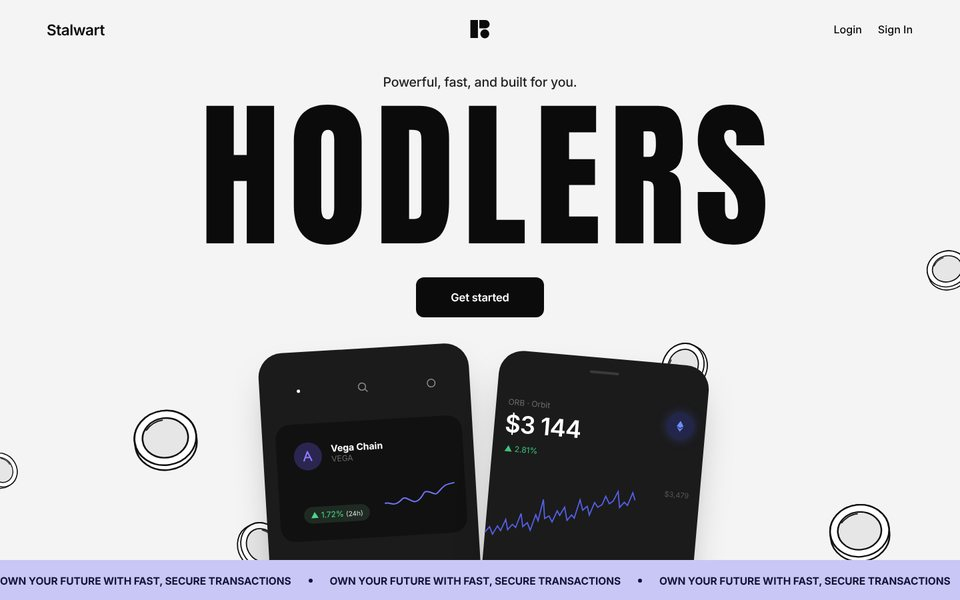
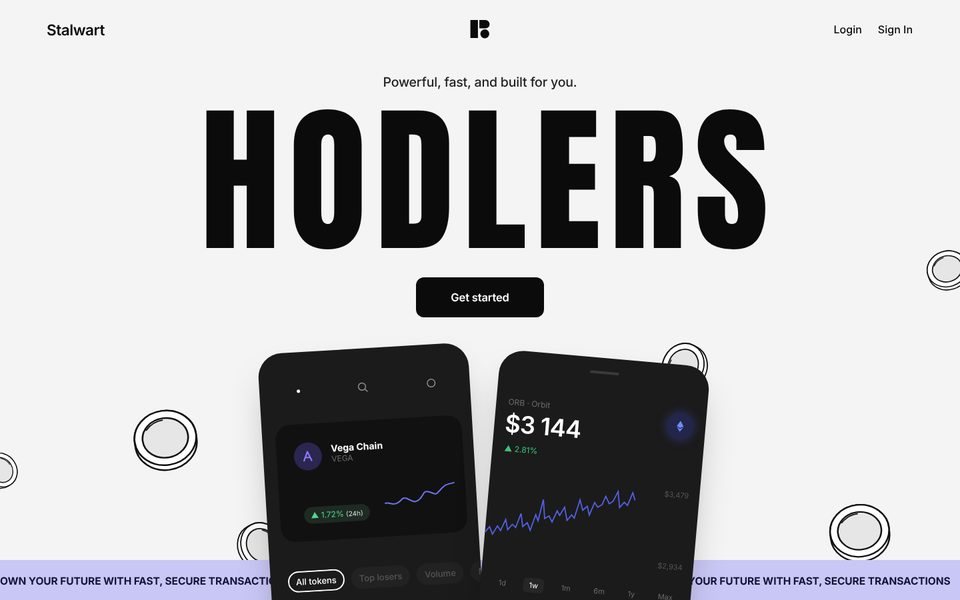
Study 04 round 2: hero phones with full app screens riding over the band, kerning kept after the letter split, larger stats art, detailed Receive phone, smooth FAQ with the reference's hover-and-open
Claude-Session: https://claude.ai/code/session_014fY7WfygHxUwqSqfTcfTfp

diff --git a/studies/04-wallet/style.css b/studies/04-wallet/style.css
@@ -37,16 +37,33 @@ main, .foot { position: relative; max-width: 1440px; margin-inline: auto; }
 .nav__right a:hover { opacity: .6; }
 
 /* ---------------------------------------------------------------- hero */
-.hero { position: relative; height: calc(902 * var(--u)); overflow: hidden; text-align: center; }
+.hero { position: relative; height: calc(902 * var(--u)); overflow-x: clip; overflow-y: visible; text-align: center; }
 .hero__sub { position: absolute; left: 0; right: 0; top: calc(111 * var(--u)); font-size: calc(19.5 * var(--u)); font-weight: 500; letter-spacing: -.01em; color: #222; }
-.hero__title { position: absolute; left: 0; right: 0; top: calc(130 * var(--u)); font-family: var(--cond); font-weight: 400; font-size: calc(240 * var(--u)); line-height: 1.12; letter-spacing: .054em; text-indent: .054em; color: #0B0B0B; }
+.hero__title { position: absolute; left: 0; right: 0; top: calc(137 * var(--u)); font-family: var(--cond); font-weight: 400; font-size: calc(240 * var(--u)); line-height: 1.12; letter-spacing: .054em; text-indent: .054em; color: #0B0B0B; }
 .hero__title span { display: inline-block; }
 .hero__title .ch { display: inline-block; }
 .btn--hero { position: absolute; left: 50%; top: calc(416 * var(--u)); translate: -50% 0; width: calc(192 * var(--u)); height: calc(60 * var(--u)); padding: 0; border-radius: calc(12 * var(--u)); font-size: calc(16.5 * var(--u)); }
 .btn--hero:hover { translate: -50% calc(-2 * var(--u)); }
 .coins { position: absolute; inset: 0; pointer-events: none; }
 .coin { position: absolute; left: calc(var(--x) * var(--u)); top: calc(var(--y) * var(--u)); width: calc(110 * var(--u) * var(--s)); height: calc(110 * var(--u) * var(--s)); transform: rotate(calc(var(--r) * 1deg)) scaleY(.92); }
-.hero__phones { position: absolute; left: 0; right: 0; top: calc(518 * var(--u)); height: calc(700 * var(--u)); }
+.hero__phones { position: absolute; z-index: 3; left: 0; right: 0; top: calc(518 * var(--u)); height: calc(700 * var(--u)); pointer-events: none; }
+.s-list { position: absolute; left: calc(22 * var(--u)); right: calc(22 * var(--u)); top: calc(384 * var(--u)); margin: 0; padding: 0; list-style: none; }
+.s-list li { position: relative; display: flex; align-items: center; height: calc(66 * var(--u)); }
+.s-list .tk { position: static; flex: none; width: calc(40 * var(--u)); height: calc(40 * var(--u)); }
+.tk--gold { background: #3A2A12; color: #F2A93B; } .tk--orb { background: #23264A; color: #6E8BFF; } .tk--xeno { background: #13332E; color: #3CC7A8; } .tk--solis { background: #39320F; color: #F2CF3B; }
+.s-list p { display: grid; gap: calc(3 * var(--u)); margin-left: calc(14 * var(--u)); font-size: calc(12.5 * var(--u)); font-weight: 600; text-transform: uppercase; letter-spacing: .01em; }
+.s-list p small { width: max-content; padding: calc(2 * var(--u)) calc(7 * var(--u)); border-radius: calc(6 * var(--u)); background: #232323; color: #6B6B6B; font-size: calc(10.5 * var(--u)); font-weight: 500; }
+.s-list em { display: grid; justify-items: end; gap: calc(3 * var(--u)); margin-left: auto; font-style: normal; font-size: calc(14 * var(--u)); font-weight: 600; }
+.s-list em small { font-size: calc(11 * var(--u)); font-weight: 500; }
+.s-list .up { color: #3CC37A; } .s-list .dn { color: #E5484D; }
+.s-act { position: absolute; left: calc(16 * var(--u)); right: calc(16 * var(--u)); top: calc(392 * var(--u)); display: grid; grid-template-columns: 1fr 1fr; gap: calc(10 * var(--u)); }
+.s-act b, .s-act span { display: grid; place-items: center; height: calc(54 * var(--u)); border-radius: calc(14 * var(--u)); font-size: calc(14 * var(--u)); font-weight: 600; }
+.s-act b { background: #F3F3F3; color: #111; }
+.s-act span { box-shadow: inset 0 0 0 calc(2 * var(--u)) #EDEDED; color: #fff; }
+.s-about { position: absolute; left: calc(18 * var(--u)); right: calc(20 * var(--u)); top: calc(470 * var(--u)); font-size: calc(11.5 * var(--u)); line-height: 1.5; color: #4E4E4E; }
+.s-about b { display: block; margin-bottom: calc(10 * var(--u)); color: #EDEDED; font-size: calc(12.5 * var(--u)); font-weight: 700; text-transform: uppercase; letter-spacing: .02em; }
+.s-stats { position: absolute; left: calc(12 * var(--u)); right: calc(12 * var(--u)); top: calc(574 * var(--u)); display: grid; grid-template-columns: 1fr 1fr; gap: calc(6 * var(--u)); }
+.s-stats span { height: calc(90 * var(--u)); padding: calc(16 * var(--u)); border-radius: calc(16 * var(--u)); background: #232323; font-size: calc(12 * var(--u)); color: #5A5A5A; }
 .dev { position: absolute; width: calc(316 * var(--u)); height: calc(660 * var(--u)); border-radius: calc(36 * var(--u)); background: var(--night); box-shadow: 0 calc(30 * var(--u)) calc(60 * var(--u)) calc(-20 * var(--u)) rgba(0, 0, 0, .35); color: #fff; text-align: left; overflow: hidden; }
 .dev--l { left: calc(405 * var(--u)); top: calc(4 * var(--u)); rotate: -3.4deg; }
 .dev--r { left: calc(722 * var(--u)); top: calc(18 * var(--u)); rotate: 5deg; }
@@ -104,7 +121,7 @@ main, .foot { position: relative; max-width: 1440px; margin-inline: auto; }
 .stats { position: relative; }
 .stats__in { position: relative; display: grid; grid-template-columns: calc(616 * var(--u)) 1fr; padding-left: calc(120 * var(--u)); }
 .art { position: sticky; top: max(calc(133 * var(--u)), calc(50vh - 318 * var(--u))); width: calc(510 * var(--u)); height: calc(645 * var(--u)); margin-top: calc(133 * var(--u)); margin-bottom: calc(124 * var(--u)); border-radius: calc(10 * var(--u)); background: #fff; }
-.art__img { position: absolute; left: calc(95 * var(--u)); top: calc(126 * var(--u)); width: calc(320 * var(--u)); height: calc(390 * var(--u)); opacity: 0; overflow: visible; }
+.art__img { position: absolute; left: calc(63 * var(--u)); top: calc(87 * var(--u)); width: calc(384 * var(--u)); height: calc(468 * var(--u)); opacity: 0; overflow: visible; }
 .art__img--1 { opacity: 1; }
 .stat-list { padding-top: calc(395 * var(--u)); padding-bottom: calc(330 * var(--u)); }
 .stat { width: calc(470 * var(--u)); color: var(--grey); transition: color .5s var(--ease); }
@@ -192,13 +209,19 @@ html:not(.js-motion) .cp + .cp { margin-top: calc(300 * var(--u)); }
 .nt__txt { padding: calc(14 * var(--u)) calc(20 * var(--u)); font-size: calc(10.5 * var(--u)); line-height: 1.45; color: #777; }
 .nt__txt b { color: #fff; font-weight: 600; }
 .sp--qr { background: radial-gradient(ellipse 80% 40% at 50% 50%, #1E1E1E, #0B0B0B 70%); }
-.qr__addr { position: absolute; left: 0; right: 0; top: calc(56 * var(--u)); text-align: center; font-size: calc(11 * var(--u)); color: #777; }
-.qr__code { position: absolute; left: 50%; top: calc(110 * var(--u)); width: calc(150 * var(--u)); height: calc(150 * var(--u)); translate: -50% 0; }
+.qr__grab { position: absolute; left: 50%; top: calc(26 * var(--u)); width: calc(40 * var(--u)); height: calc(4 * var(--u)); translate: -50% 0; border-radius: 9px; background: #3A3A3A; }
+.qr__addr { position: absolute; left: 50%; top: calc(46 * var(--u)); translate: -50% 0; display: flex; align-items: center; gap: calc(10 * var(--u)); height: calc(38 * var(--u)); padding: 0 calc(14 * var(--u)) 0 calc(16 * var(--u)); border-radius: 999px; background: #1A1A1A; box-shadow: inset 0 0 0 1px #2C2C2C; font-size: calc(11.5 * var(--u)); font-weight: 600; color: #CFCFCF; white-space: nowrap; }
+.qr__addr svg { width: calc(12 * var(--u)); height: calc(12 * var(--u)); color: #777; }
+.qr__card { position: absolute; left: calc(14 * var(--u)); right: calc(14 * var(--u)); top: calc(96 * var(--u)); height: calc(196 * var(--u)); border-radius: calc(22 * var(--u)); background: #141414; box-shadow: inset 0 0 0 1px #222, 0 calc(14 * var(--u)) calc(30 * var(--u)) rgba(0, 0, 0, .5); }
+.qr__ghost { position: absolute; left: calc(26 * var(--u)); right: calc(26 * var(--u)); top: calc(392 * var(--u)); height: calc(46 * var(--u)); border-radius: calc(12 * var(--u)); background: #232323; filter: blur(calc(6 * var(--u))); opacity: .7; }
+.qr__ghost--2 { top: calc(452 * var(--u)); right: calc(120 * var(--u)); opacity: .5; }
+.qr__code { position: absolute; left: 50%; top: calc(118 * var(--u)); width: calc(152 * var(--u)); height: calc(152 * var(--u)); translate: -50% 0; }
 .qr__code > svg { width: 100%; height: 100%; }
 .qr__code span { position: absolute; left: 50%; top: 50%; display: grid; place-items: center; width: calc(36 * var(--u)); height: calc(36 * var(--u)); translate: -50% -50%; border-radius: 50%; background: #fff; color: #111; box-shadow: 0 0 0 calc(4 * var(--u)) #0B0B0B; }
 .qr__code span svg { width: 56%; height: 56%; }
-.qr__title { position: absolute; left: 0; right: 0; top: calc(300 * var(--u)); text-align: center; font-size: calc(30 * var(--u)); font-weight: 600; }
-.qr__hint { position: absolute; left: 0; right: 0; top: calc(348 * var(--u)); text-align: center; font-size: calc(10 * var(--u)); line-height: 1.5; color: #555; }
+.qr__title { position: absolute; left: 0; right: 0; top: calc(312 * var(--u)); text-align: center; font-size: calc(30 * var(--u)); font-weight: 600; text-shadow: 0 0 calc(24 * var(--u)) rgba(255, 255, 255, .28); }
+.qr__title::before { content: ""; position: absolute; z-index: -1; left: 18%; right: 18%; top: -30%; bottom: -30%; border-radius: 50%; background: radial-gradient(closest-side, rgba(255, 255, 255, .1), transparent); }
+.qr__hint { position: absolute; left: 0; right: 0; top: calc(356 * var(--u)); text-align: center; font-size: calc(10 * var(--u)); line-height: 1.5; color: #555; }
 .qr__copy { position: absolute; left: calc(16 * var(--u)); right: calc(16 * var(--u)); bottom: calc(26 * var(--u)); display: grid; place-items: center; height: calc(50 * var(--u)); border-radius: calc(10 * var(--u)); background: #fff; color: #111; font-size: calc(13 * var(--u)); font-weight: 600; }
 .copy { position: relative; grid-column: 2; }
 .cp { position: absolute; left: 0; top: calc(304 * var(--u)); width: calc(520 * var(--u)); }
@@ -232,8 +255,8 @@ html:not(.js-motion) .cp + .cp { margin-top: calc(300 * var(--u)); }
 .q { position: relative; border-radius: calc(14 * var(--u)); transition: background-color .3s var(--ease); }
 .q::after { content: ""; position: absolute; left: calc(20 * var(--u)); right: calc(20 * var(--u)); bottom: 0; height: 1px; background: #E6E6E6; transition: opacity .3s; }
 .q:last-child::after { display: none; }
-.q:hover, .q[open] { background: #E4E4E4; }
-.q:hover::after, .q[open]::after { opacity: 0; }
+.q:hover, .q.is-hover { background: #E4E4E4; }
+.q:hover::after, .q.is-hover::after { opacity: 0; }
 .q summary { display: flex; align-items: center; justify-content: space-between; height: calc(88 * var(--u)); padding: 0 calc(20 * var(--u)); list-style: none; cursor: pointer; font-size: calc(19 * var(--u)); font-weight: 500; letter-spacing: -.012em; }
 .q summary::-webkit-details-marker { display: none; }
 .q summary svg { width: calc(20 * var(--u)); height: calc(20 * var(--u)); transition: rotate .4s var(--ease); }

diff --git a/studies/04-wallet/index.html b/studies/04-wallet/index.html
@@ -67,6 +67,12 @@
           <div class="s-top"><i class="dot"></i><svg><use href="#i-search"/></svg><svg><use href="#i-ring"/></svg></div>
           <div class="s-token"><span class="tk tk--vega"><svg><use href="#t-arc"/></svg></span><p><b>Vega Chain</b><small>VEGA</small></p><em>▲ 1.72% <small>(24h)</small></em><svg class="spark" viewBox="0 0 110 40"><path d="M2 30c8-2 10 4 18 1s8-10 16-6 10 8 18 2 6-14 16-10 8 6 16-2 10-8 22-10" fill="none" stroke="#6E73F4" stroke-width="2"/></svg></div>
           <p class="s-chips"><b>All tokens</b><span>Top losers</span><span>Volume</span><span>Market</span></p>
+          <ul class="s-list">
+            <li><span class="tk tk--gold"><svg><use href="#t-gold"/></svg></span><p><b>Golden</b><small>GLD</small></p><em>$102 536<small class="dn">− 1.04%</small></em></li>
+            <li><span class="tk tk--orb"><svg><use href="#t-orb"/></svg></span><p><b>Orbit</b><small>ORB</small></p><em>$3 144<small class="up">+ 2.81%</small></em></li>
+            <li><span class="tk tk--xeno"><svg><use href="#t-xeno"/></svg></span><p><b>Xeno</b><small>XNO</small></p><em>$1.00<small class="dn">− 0.02%</small></em></li>
+            <li><span class="tk tk--solis"><svg><use href="#t-solis"/></svg></span><p><b>Solis</b><small>SLS</small></p><em>$697.38<small class="up">+ 0.72%</small></em></li>
+          </ul>
         </div>
       </div>
       <div class="dev dev--r">
@@ -78,7 +84,10 @@
           <span class="s-coin"><svg><use href="#t-orb"/></svg></span>
           <svg class="s-chart" viewBox="0 0 300 120" preserveAspectRatio="none"><path d="M0 92l6-8 5 10 6-12 5 6 6-16 4 14 6-8 5 4 6-20 4 18 6-6 5 10 6-22 4 8 5-30 4 26 6-4 5 8 6-16 4 6 6-12 5 18 6-8 4 4 6-26 5 14 6-6 4 12 6-18 5 6 6-4 4-12 6 10 5-4 6-14 4 22 6-8 5 4 6-18 4 10"/></svg>
           <small class="s-hi">$3,479</small><small class="s-lo">$2,934</small>
-          <p class="s-range"><span class="on">1w</span><span>1m</span><span>6m</span></p>
+          <p class="s-range"><span>1d</span><span class="on">1w</span><span>1m</span><span>6m</span><span>1y</span><span>Max</span></p>
+          <p class="s-act"><b>Buy</b><span>Send</span></p>
+          <p class="s-about"><b>Orbit</b>Orbit is a decentralized network with its own token, Orbit (ORB), and works as a platform for many other projects.</p>
+          <p class="s-stats"><span>Market Cap</span><span>Volume</span></p>
         </div>
       </div>
     </div>
@@ -186,10 +195,10 @@
             <div class="nt"><div class="nt__card"><span class="nt__ic nt__ic--b"><svg><use href="#t-orb"/></svg></span><p><b>Price alert</b><small>Oct 2, 2026</small></p><svg class="nt__go"><use href="#i-right"/></svg></div><p class="nt__txt">Orbit (ORB) is down <b>-3.45%</b> to <b>$1,832.50</b> in the last <b>24</b> hours.</p></div>
           </div>
           <div class="sp sp--qr">
-            <p class="qr__addr">0x9f…a7c4</p>
-            <div class="qr__code"><svg viewBox="0 0 25 25" shape-rendering="crispEdges"><path fill="#fff" d="M0 0h7v7H0zM18 0h7v7h-7zM0 18h7v7H0zM9 1h2v2H9zM13 0h3v2h-3zM9 5h4v2H9zM15 4h2v4h-2zM8 9h3v2H8zM12 8h2v3h-2zM16 10h4v2h-4zM21 8h3v3h-3zM1 9h3v3H1zM5 11h2v2H5zM9 13h2v4H9zM12 13h4v2h-4zM18 13h2v2h-2zM21 13h4v2h-4zM13 17h2v2h-2zM17 16h3v3h-3zM22 17h3v4h-3zM9 19h3v2H9zM14 20h3v2h-3zM19 21h2v4h-2zM9 23h4v2H9zM15 23h3v2h-3zM2 14h4v2H2z"/><path fill="#000" d="M1 1h5v5H1zM19 1h5v5h-5zM1 19h5v5H1z"/><path fill="#fff" d="M2 2h3v3H2zM20 2h3v3h-3zM2 20h3v3H2z"/></svg><span><svg><use href="#t-orb"/></svg></span></div>
+            <i class="qr__grab"></i><p class="qr__addr">0x9f7a…c4e1a<svg><use href="#i-chev"/></svg></p><i class="qr__card"></i>
+            <div class="qr__code"><svg viewBox="0 0 29 29" shape-rendering="crispEdges"><path fill="#fff" d="M10 0h1v1h-1zM17 0h1v1h-1zM20 0h1v1h-1zM12 1h1v1h-1zM19 1h1v1h-1zM8 2h1v1h-1zM11 2h1v1h-1zM12 2h1v1h-1zM15 2h1v1h-1zM17 2h1v1h-1zM19 2h1v1h-1zM8 3h1v1h-1zM10 3h1v1h-1zM11 3h1v1h-1zM12 3h1v1h-1zM15 3h1v1h-1zM17 3h1v1h-1zM20 3h1v1h-1zM9 4h1v1h-1zM13 4h1v1h-1zM14 4h1v1h-1zM18 4h1v1h-1zM19 4h1v1h-1zM20 4h1v1h-1zM10 5h1v1h-1zM11 5h1v1h-1zM19 5h1v1h-1zM20 5h1v1h-1zM8 6h1v1h-1zM13 6h1v1h-1zM9 7h1v1h-1zM12 7h1v1h-1zM13 7h1v1h-1zM16 7h1v1h-1zM17 7h1v1h-1zM19 7h1v1h-1zM1 8h1v1h-1zM2 8h1v1h-1zM6 8h1v1h-1zM8 8h1v1h-1zM10 8h1v1h-1zM11 8h1v1h-1zM16 8h1v1h-1zM17 8h1v1h-1zM18 8h1v1h-1zM19 8h1v1h-1zM20 8h1v1h-1zM21 8h1v1h-1zM23 8h1v1h-1zM24 8h1v1h-1zM26 8h1v1h-1zM28 8h1v1h-1zM0 9h1v1h-1zM4 9h1v1h-1zM5 9h1v1h-1zM6 9h1v1h-1zM7 9h1v1h-1zM10 9h1v1h-1zM13 9h1v1h-1zM15 9h1v1h-1zM18 9h1v1h-1zM19 9h1v1h-1zM20 9h1v1h-1zM21 9h1v1h-1zM23 9h1v1h-1zM24 9h1v1h-1zM26 9h1v1h-1zM27 9h1v1h-1zM0 10h1v1h-1zM4 10h1v1h-1zM6 10h1v1h-1zM9 10h1v1h-1zM12 10h1v1h-1zM14 10h1v1h-1zM15 10h1v1h-1zM16 10h1v1h-1zM17 10h1v1h-1zM19 10h1v1h-1zM21 10h1v1h-1zM23 10h1v1h-1zM25 10h1v1h-1zM27 10h1v1h-1zM28 10h1v1h-1zM2 11h1v1h-1zM5 11h1v1h-1zM7 11h1v1h-1zM8 11h1v1h-1zM10 11h1v1h-1zM11 11h1v1h-1zM17 11h1v1h-1zM18 11h1v1h-1zM19 11h1v1h-1zM21 11h1v1h-1zM26 11h1v1h-1zM27 11h1v1h-1zM28 11h1v1h-1zM1 12h1v1h-1zM2 12h1v1h-1zM4 12h1v1h-1zM7 12h1v1h-1zM10 12h1v1h-1zM19 12h1v1h-1zM20 12h1v1h-1zM21 12h1v1h-1zM22 12h1v1h-1zM23 12h1v1h-1zM24 12h1v1h-1zM25 12h1v1h-1zM26 12h1v1h-1zM28 12h1v1h-1zM0 13h1v1h-1zM1 13h1v1h-1zM2 13h1v1h-1zM6 13h1v1h-1zM7 13h1v1h-1zM8 13h1v1h-1zM10 13h1v1h-1zM18 13h1v1h-1zM21 13h1v1h-1zM25 13h1v1h-1zM28 13h1v1h-1zM0 14h1v1h-1zM1 14h1v1h-1zM3 14h1v1h-1zM6 14h1v1h-1zM7 14h1v1h-1zM8 14h1v1h-1zM9 14h1v1h-1zM10 14h1v1h-1zM20 14h1v1h-1zM21 14h1v1h-1zM22 14h1v1h-1zM23 14h1v1h-1zM26 14h1v1h-1zM27 14h1v1h-1zM0 15h1v1h-1zM2 15h1v1h-1zM3 15h1v1h-1zM5 15h1v1h-1zM6 15h1v1h-1zM7 15h1v1h-1zM8 15h1v1h-1zM18 15h1v1h-1zM19 15h1v1h-1zM21 15h1v1h-1zM22 15h1v1h-1zM23 15h1v1h-1zM25 15h1v1h-1zM26 15h1v1h-1zM0 16h1v1h-1zM2 16h1v1h-1zM3 16h1v1h-1zM4 16h1v1h-1zM6 16h1v1h-1zM9 16h1v1h-1zM10 16h1v1h-1zM18 16h1v1h-1zM21 16h1v1h-1zM22 16h1v1h-1zM23 16h1v1h-1zM26 16h1v1h-1zM28 16h1v1h-1zM0 17h1v1h-1zM1 17h1v1h-1zM3 17h1v1h-1zM6 17h1v1h-1zM8 17h1v1h-1zM9 17h1v1h-1zM18 17h1v1h-1zM19 17h1v1h-1zM22 17h1v1h-1zM23 17h1v1h-1zM24 17h1v1h-1zM25 17h1v1h-1zM28 17h1v1h-1zM0 18h1v1h-1zM1 18h1v1h-1zM2 18h1v1h-1zM5 18h1v1h-1zM8 18h1v1h-1zM11 18h1v1h-1zM12 18h1v1h-1zM14 18h1v1h-1zM16 18h1v1h-1zM19 18h1v1h-1zM21 18h1v1h-1zM22 18h1v1h-1zM23 18h1v1h-1zM27 18h1v1h-1zM0 19h1v1h-1zM1 19h1v1h-1zM2 19h1v1h-1zM6 19h1v1h-1zM8 19h1v1h-1zM9 19h1v1h-1zM10 19h1v1h-1zM11 19h1v1h-1zM14 19h1v1h-1zM15 19h1v1h-1zM16 19h1v1h-1zM17 19h1v1h-1zM18 19h1v1h-1zM19 19h1v1h-1zM20 19h1v1h-1zM0 20h1v1h-1zM2 20h1v1h-1zM3 20h1v1h-1zM6 20h1v1h-1zM7 20h1v1h-1zM11 20h1v1h-1zM12 20h1v1h-1zM14 20h1v1h-1zM18 20h1v1h-1zM24 20h1v1h-1zM28 20h1v1h-1zM8 21h1v1h-1zM9 21h1v1h-1zM13 21h1v1h-1zM14 21h1v1h-1zM15 21h1v1h-1zM16 21h1v1h-1zM18 21h1v1h-1zM21 21h1v1h-1zM22 21h1v1h-1zM23 21h1v1h-1zM25 21h1v1h-1zM26 21h1v1h-1zM28 21h1v1h-1zM11 22h1v1h-1zM14 22h1v1h-1zM19 22h1v1h-1zM20 22h1v1h-1zM22 22h1v1h-1zM25 22h1v1h-1zM12 23h1v1h-1zM13 23h1v1h-1zM15 23h1v1h-1zM17 23h1v1h-1zM20 23h1v1h-1zM21 23h1v1h-1zM22 23h1v1h-1zM23 23h1v1h-1zM24 23h1v1h-1zM25 23h1v1h-1zM27 23h1v1h-1zM8 24h1v1h-1zM11 24h1v1h-1zM12 24h1v1h-1zM13 24h1v1h-1zM15 24h1v1h-1zM16 24h1v1h-1zM17 24h1v1h-1zM19 24h1v1h-1zM21 24h1v1h-1zM23 24h1v1h-1zM24 24h1v1h-1zM25 24h1v1h-1zM26 24h1v1h-1zM27 24h1v1h-1zM10 25h1v1h-1zM16 25h1v1h-1zM20 25h1v1h-1zM23 25h1v1h-1zM26 25h1v1h-1zM27 25h1v1h-1zM28 25h1v1h-1zM8 26h1v1h-1zM13 26h1v1h-1zM14 26h1v1h-1zM16 26h1v1h-1zM17 26h1v1h-1zM19 26h1v1h-1zM21 26h1v1h-1zM22 26h1v1h-1zM25 26h1v1h-1zM8 27h1v1h-1zM9 27h1v1h-1zM12 27h1v1h-1zM13 27h1v1h-1zM14 27h1v1h-1zM15 27h1v1h-1zM20 27h1v1h-1zM21 27h1v1h-1zM26 27h1v1h-1zM27 27h1v1h-1zM8 28h1v1h-1zM9 28h1v1h-1zM11 28h1v1h-1zM12 28h1v1h-1zM13 28h1v1h-1zM16 28h1v1h-1zM17 28h1v1h-1zM19 28h1v1h-1zM20 28h1v1h-1zM21 28h1v1h-1zM23 28h1v1h-1zM24 28h1v1h-1zM26 28h1v1h-1zM27 28h1v1h-1zM28 28h1v1h-1z"/><rect x="0" y="0" width="7" height="7" rx="1.7" fill="#fff"/><rect x="1" y="1" width="5" height="5" rx="1.2" fill="#0B0B0B"/><rect x="2" y="2" width="3" height="3" rx=".8" fill="#fff"/><rect x="22" y="0" width="7" height="7" rx="1.7" fill="#fff"/><rect x="23" y="1" width="5" height="5" rx="1.2" fill="#0B0B0B"/><rect x="24" y="2" width="3" height="3" rx=".8" fill="#fff"/><rect x="0" y="22" width="7" height="7" rx="1.7" fill="#fff"/><rect x="1" y="23" width="5" height="5" rx="1.2" fill="#0B0B0B"/><rect x="2" y="24" width="3" height="3" rx=".8" fill="#fff"/></svg><span><svg><use href="#t-orb"/></svg></span></div>
             <b class="qr__title">Receive</b><small class="qr__hint">Scan the QR code or copy the address<br>to receive Orbit</small>
-            <span class="qr__copy">Copy</span>
+            <i class="qr__ghost"></i><i class="qr__ghost qr__ghost--2"></i><span class="qr__copy">Copy</span>
           </div>
         </div>
       </div>

diff --git a/studies/04-wallet/main.js b/studies/04-wallet/main.js
@@ -79,6 +79,22 @@
   var letters = title.textContent.split('').map(function (ch) { return ch; });
   title.textContent = '';
   var chars = letters.map(function (ch) { var s = document.createElement('span'); s.className = 'ch'; s.textContent = ch; title.appendChild(s); return s; });
+  // the letters keep the word's kerning: a hidden probe holds the unsplit word, each letter is nudged to its kerned spot
+  function rekern() {
+    chars.forEach(function (c) { c.style.marginLeft = ''; });
+    var probe = document.createElement('span');
+    probe.textContent = letters.join('');
+    probe.style.cssText = 'position:absolute;left:0;top:0;visibility:hidden;white-space:nowrap';
+    title.parentNode.appendChild(probe);
+    var node = probe.firstChild, rg = document.createRange(), ks = [], i;
+    for (i = 0; i < letters.length; i++) { rg.setStart(node, i); rg.setEnd(node, i + 1); ks.push(rg.getBoundingClientRect().left); }
+    probe.parentNode.removeChild(probe);
+    var ss = chars.map(function (c) { return c.getBoundingClientRect().left; });
+    for (i = 1; i < chars.length; i++) chars[i].style.marginLeft = ((ks[i] - ks[i - 1]) - (ss[i] - ss[i - 1])).toFixed(2) + 'px';
+  }
+  rekern();
+  if (document.fonts && document.fonts.ready) document.fonts.ready.then(rekern);
+  window.addEventListener('resize', rekern);
   gsap.set(title, { clipPath: 'inset(0 -10% 0 -10%)' });
   var coins = $$('.coin');
   var intro = gsap.timeline({ defaults: { ease: 'expo.out' } });
@@ -96,8 +112,8 @@
   });
   // scroll: the phones rise into the dark section, coins drift at different depths
   var heroST = { trigger: '.hero', start: 'top top', end: 'bottom top', scrub: .4 };
+  // reference: the title scrolls with the page, the phones run 1.3x faster over the band and the dark section
   gsap.to('.hero__phones', { y: function () { return -260 * innerWidth / 1440; }, ease: 'none', scrollTrigger: heroST });
-  gsap.to('.hero__title, .hero__sub, .btn--hero', { y: -90, opacity: .2, ease: 'none', scrollTrigger: heroST });
   coins.forEach(function (c, i) { gsap.to(c, { yPercent: -(60 + i * 35), ease: 'none', scrollTrigger: heroST }); });
   // the phone's live ticker in the hero
   var heroPrice = $('.dev--r .s-price'), hp = 3144;
@@ -155,6 +171,29 @@
   setStep(0);
   ST.create({ trigger: '.steps', start: 'top top', end: 'bottom bottom', onUpdate: function (s) { setStep(Math.min(3, Math.floor(s.progress * 4 * .999))); } });
   gsap.from('.sphone', { y: 200, opacity: 0, duration: 1.3, ease: 'expo.out', scrollTrigger: { trigger: '.steps', start: 'top 80%', once: true } });
+
+  /* ------------------------------------------------------------ faq: answers open smoothly; the fifth question is hovered
+     and opened by itself a moment after the section arrives (as the reference's visitor does), unless someone clicked */
+  var qs = $$('.q'), faqTouched = false;
+  function openQ(d) {
+    var p = d.querySelector('p');
+    qs.forEach(function (o) { if (o !== d && o.open) closeQ(o); });
+    d.open = true;
+    gsap.fromTo(p, { height: 0, opacity: 0 }, { height: 'auto', opacity: 1, duration: .5, ease: 'power3.out', clearProps: 'height' });
+  }
+  function closeQ(d) {
+    var p = d.querySelector('p');
+    gsap.to(p, { height: 0, opacity: 0, duration: .35, ease: 'power3.inOut', onComplete: function () { d.open = false; gsap.set(p, { clearProps: 'height,opacity' }); } });
+  }
+  qs.forEach(function (d) {
+    d.querySelector('summary').addEventListener('click', function (e) { e.preventDefault(); faqTouched = true; d.open ? closeQ(d) : openQ(d); });
+  });
+  ST.create({ trigger: '.faq', start: 'top 35%', once: true, onEnter: function () {
+    var d = qs[4]; if (!d) return;
+    setTimeout(function () { if (faqTouched) return; d.classList.add('is-hover'); }, 700);
+    setTimeout(function () { if (faqTouched) { d.classList.remove('is-hover'); return; } openQ(d); }, 1500);
+    setTimeout(function () { d.classList.remove('is-hover'); }, 2200);
+  } });
 
   /* ------------------------------------------------------------ faq and footer */
   gsap.from('.q', { y: 30, opacity: 0, duration: .9, ease: 'expo.out', stagger: .06, scrollTrigger: { trigger: '.faq', start: 'top 70%', once: true } });

diff --git a/studies/README.md b/studies/README.md
@@ -83,6 +83,12 @@ Also sent with the request (references to use in places later, not studies thems
   title 101u), Inter 600/500 for the rest.
 - Placeholders: brand "Stalwart", tokens Orbit / Golden / Swirl / Xeno / Solis / Prism (glyphs drawn here, no real
   crypto logos), Sample Bank Ltd, Nimbus (NMB); the isometric illustrations are drawn SVG in the same style.
+- Round 2 (frame-matched): the hero phones are full app screens (token list; range chips, Buy / Send, token card) that
+  ride over the marquee band and the dark section (z-index above them, the hero clips only sideways; phones 1.3x the
+  scroll, the title scrolls with the page); HODLERS keeps Anton's kerning after the letter split (a hidden probe holds the
+  unsplit word and the letters get margins: the split alone made it 92 px wider); stats art 1.2x; the Receive phone has
+  the grabber, address pill, QR card with a dense 29x29 code, glow and blurred rows; FAQ answers open smoothly, an open
+  answer has no grey ground, and the fifth question is hovered then opened by itself like the reference's visitor.
 - The pinned scenes (`.js-motion` only): the dark title stage and the four-step phone stage are sticky 100vh stages
   centered on a 902u box; without motion the steps stack beside a sticky phone and everything is visible.
 
